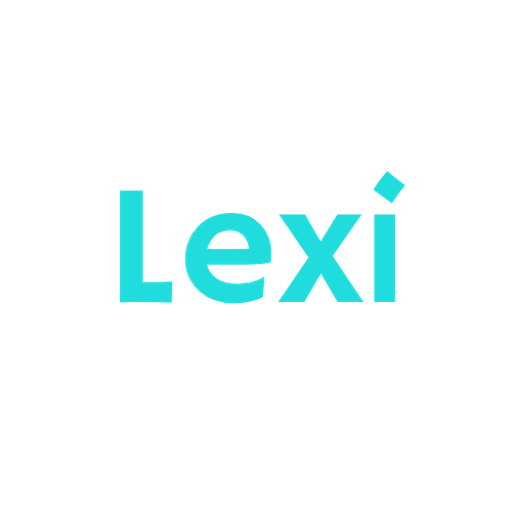
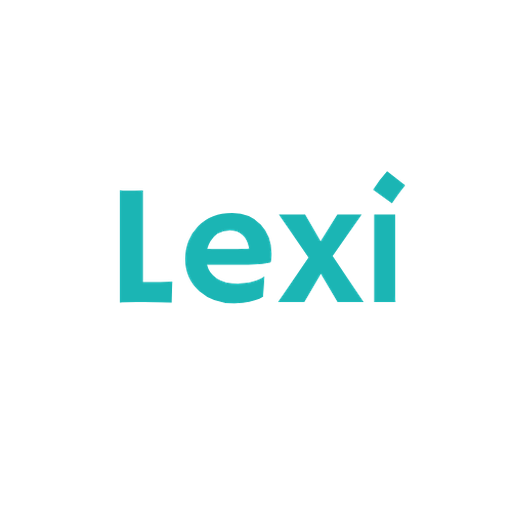
Add files via upload

Changed region(s): [[0.2188, 0.3438, 0.7812, 0.5938]]

diff --git a/index.html b/index.html
@@ -3,25 +3,25 @@
 <head>
 <meta charset="UTF-8">
 <meta name="viewport" content="width=device-width, initial-scale=1.0, viewport-fit=cover">
-<title>WordTrack — Prototipo</title>
+<title>Lexi — Prototipo</title>
 
 <!-- PWA: permite "Agregar a pantalla de inicio" -->
 <link rel="manifest" href="manifest.json">
-<meta name="theme-color" content="#2ab5c0">
+<meta name="theme-color" content="#1BB5B4">
 <link rel="icon" href="icon-192.png">
 <link rel="apple-touch-icon" href="apple-touch-icon.png">
 <meta name="mobile-web-app-capable" content="yes">
 <meta name="apple-mobile-web-app-capable" content="yes">
 <meta name="apple-mobile-web-app-status-bar-style" content="black-translucent">
-<meta name="apple-mobile-web-app-title" content="WordTrack">
+<meta name="apple-mobile-web-app-title" content="Lexi">
 
 <style>
   :root{
     --bg:#eef4fb;
     --card:#ffffff;
-    --blue:#2ab5c0;
-    --blue-dark:#1c8790;
-    --blue-tint:#e2f5f6;
+    --blue:#1BB5B4;
+    --blue-dark:#0E7A7A;
+    --blue-tint:#e3fbfb;
     --green:#3aa76d;
     --text:#22313f;
     --muted:#8a9bab;
@@ -43,7 +43,6 @@
   }
   header.topbar h1{ font-size:20px; margin:0; }
   .brand-row{ display:flex; align-items:center; gap:8px; }
-  .brand-icon{ height:30px; width:30px; display:block; }
   .brand-wordmark{ height:20px; display:block; }
   header.topbar .right{ display:flex; align-items:center; gap:8px; flex-wrap:wrap; }
   header.topbar .badge{
@@ -263,8 +262,7 @@
     padding:24px; max-width:480px; margin:0 auto; width:100%; box-sizing:border-box;
   }
   .auth-logo{ text-align:center; margin-bottom:6px; display:flex; flex-direction:column; align-items:center; gap:10px; }
-  .auth-logo .brand-icon{ height:52px; width:52px; }
-  .auth-logo .brand-wordmark{ height:34px; }
+  .auth-logo .brand-wordmark{ height:56px; }
   .auth-sub{ text-align:center; color:var(--muted); font-size:14px; margin-bottom:24px; }
   .auth-by{ text-align:center; color:var(--muted); font-size:12px; margin-top:14px; }
   .auth-tabs{ display:flex; gap:8px; margin-bottom:20px; }
@@ -285,8 +283,7 @@
 <!-- ===================== PANTALLA DE AUTENTICACIÓN (simulada) ===================== -->
 <div id="auth-screen">
   <div class="auth-logo">
-    <img class="brand-icon" src="icon-192.png" alt="WordTrack">
-    <img class="brand-wordmark" src="wordmark.png" alt="WordTrack">
+    <img class="brand-wordmark" src="wordmark.png" alt="Lexi">
   </div>
   <div class="auth-sub" data-i18n="auth_sub">Guarda tu vocabulario y practica cuando quieras</div>
 
@@ -333,7 +330,7 @@
 <div class="phone" id="app-content" style="display:none">
 
   <header class="topbar">
-    <h1 class="brand-row"><img class="brand-icon" src="icon-192.png" alt=""><img class="brand-wordmark" src="wordmark.png" alt="WordTrack"></h1>
+    <h1 class="brand-row"><img class="brand-wordmark" src="wordmark.png" alt="Lexi"></h1>
     <div class="right">
       <div class="badge">🔥 <span id="streak-badge">0</span> <span data-i18n="days_label">días</span></div>
       <button class="lang-toggle" id="lang-toggle" onclick="toggleLanguage()" title="Cambiar idioma / Change language">ES</button>
@@ -349,7 +346,7 @@
         <div style="display:flex; align-items:center; gap:12px;">
           <div style="font-size:26px;">📲</div>
           <div style="flex:1;">
-            <div style="font-weight:700; font-size:14px;" data-i18n="install_title">Instala WordTrack en tu celular</div>
+            <div style="font-weight:700; font-size:14px;" data-i18n="install_title">Instala Lexi en tu celular</div>
             <div style="font-size:12px; color:var(--muted);" id="install-banner-text" data-i18n="install_banner_text">Úsala como una app, con ícono en tu pantalla de inicio.</div>
           </div>
         </div>
@@ -570,7 +567,7 @@
       <div style="font-weight:700; font-size:16px; margin-bottom:10px;" data-i18n="ios_title">Instalar en iPhone</div>
       <p style="font-size:14px; line-height:1.6; margin:0 0 8px;" data-i18n-html="ios_step1">1. Toca el ícono de <strong>Compartir</strong> (□↑) en la barra de Safari.</p>
       <p style="font-size:14px; line-height:1.6; margin:0 0 8px;" data-i18n-html="ios_step2">2. Baja y elige <strong>"Agregar a inicio"</strong>.</p>
-      <p style="font-size:14px; line-height:1.6; margin:0 0 16px;" data-i18n="ios_step3">3. Listo — te quedará el ícono de WordTrack en tu pantalla.</p>
+      <p style="font-size:14px; line-height:1.6; margin:0 0 16px;" data-i18n="ios_step3">3. Listo — te quedará el ícono de Lexi en tu pantalla.</p>
       <button class="btn secondary" onclick="document.getElementById('ios-install-modal').style.display='none'" data-i18n="btn_understood">Entendido</button>
     </div>
   </div>
@@ -635,7 +632,7 @@ function todayStr(){ return new Date().toISOString().slice(0,10); }
 const I18N = {
   es: {
     days_label: 'días', logout_title: 'Cerrar sesión', logout_label: 'Salir',
-    install_title: 'Instala WordTrack en tu celular',
+    install_title: 'Instala Lexi en tu celular',
     install_banner_text: 'Úsala como una app, con ícono en tu pantalla de inicio.',
     install_banner_ios_text: 'Toca "Instalar" y sigue los pasos para agregarla a tu pantalla de inicio.',
     btn_install: 'Instalar',
@@ -701,7 +698,7 @@ const I18N = {
     ios_title: 'Instalar en iPhone',
     ios_step1: '1. Toca el ícono de <strong>Compartir</strong> (□↑) en la barra de Safari.',
     ios_step2: '2. Baja y elige <strong>"Agregar a inicio"</strong>.',
-    ios_step3: '3. Listo — te quedará el ícono de WordTrack en tu pantalla.',
+    ios_step3: '3. Listo — te quedará el ícono de Lexi en tu pantalla.',
     btn_understood: 'Entendido',
     btn_translate_selection: '🔍 Traducir selección',
     searching: 'Buscando…', btn_save_vocab: '+ Guardar en mi vocabulario',
@@ -724,7 +721,7 @@ const I18N = {
   },
   en: {
     days_label: 'days', logout_title: 'Log out', logout_label: 'Log out',
-    install_title: 'Install WordTrack on your phone',
+    install_title: 'Install Lexi on your phone',
     install_banner_text: 'Use it like an app, with an icon on your home screen.',
     install_banner_ios_text: 'Tap "Install" and follow the steps to add it to your home screen.',
     btn_install: 'Install',
@@ -790,7 +787,7 @@ const I18N = {
     ios_title: 'Install on iPhone',
     ios_step1: '1. Tap the <strong>Share</strong> icon (□↑) in the Safari bar.',
     ios_step2: '2. Scroll down and choose <strong>"Add to Home Screen"</strong>.',
-    ios_step3: '3. Done — the WordTrack icon will appear on your screen.',
+    ios_step3: '3. Done — the Lexi icon will appear on your screen.',
     btn_understood: 'Got it',
     btn_translate_selection: '🔍 Translate selection',
     searching: 'Searching…', btn_save_vocab: '+ Save to my vocabulary',
